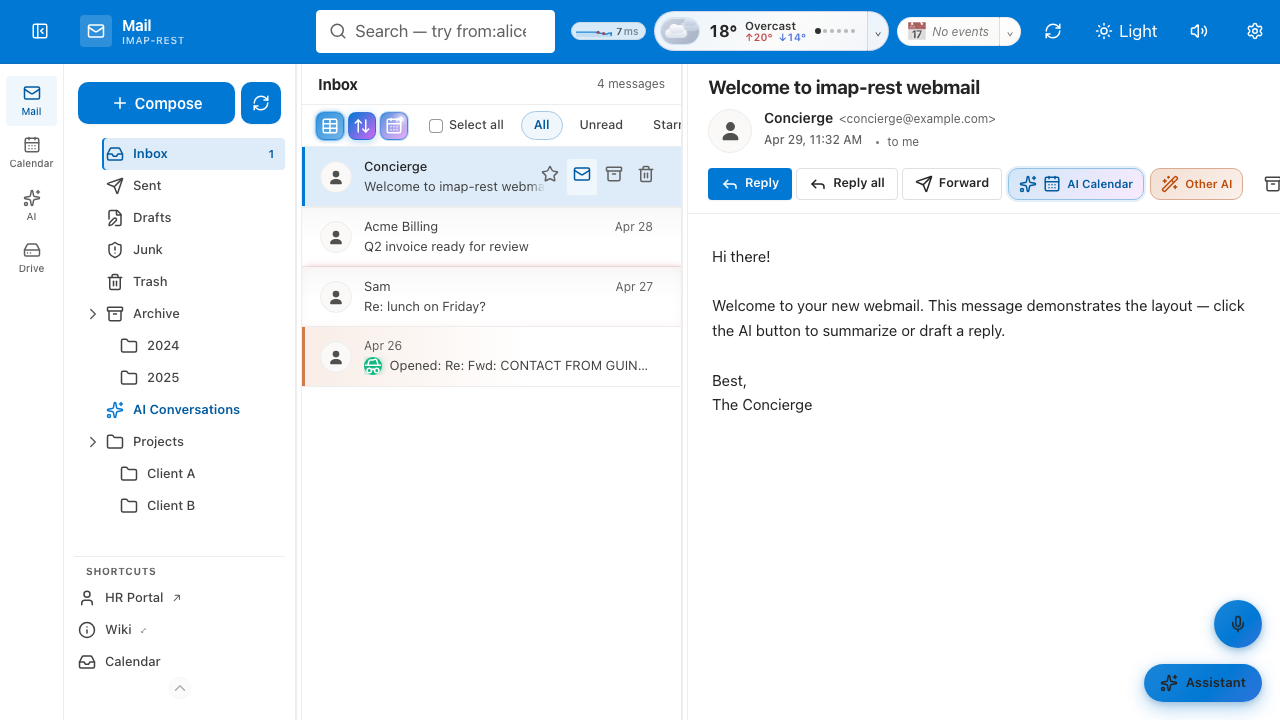
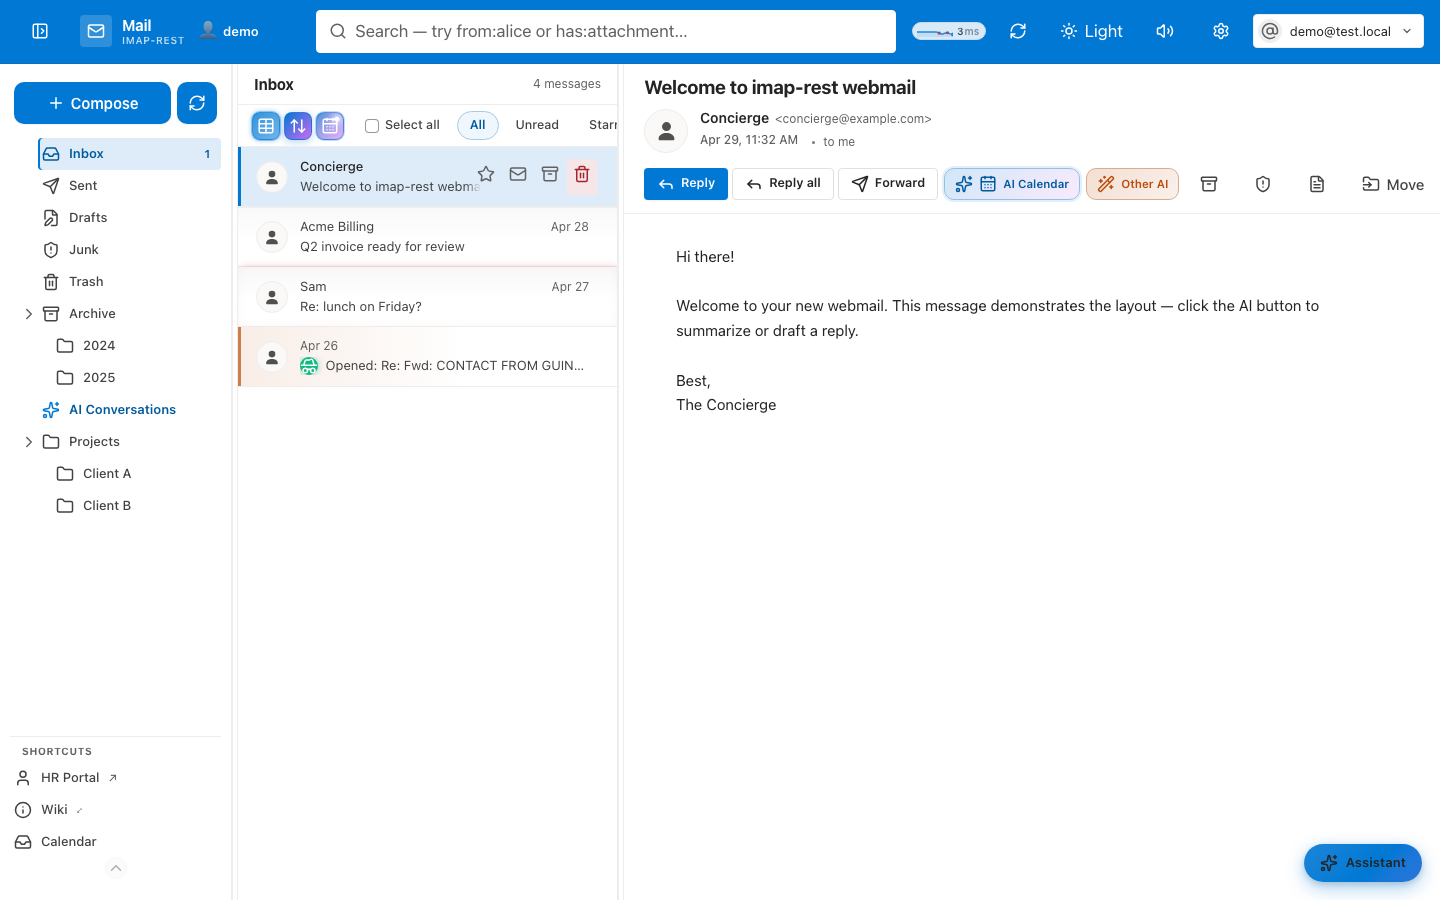
feat(webmail): sparser Outlook default — rail off, chips off, no mic, user chip (#23)
- App rail (AppSwitcher) hidden by default; topbar toggle restores it.
- Weather and calendar chips default off (Settings can re-enable).
- Outlook skin hides the voice FAB; Assistant stays.
- Outlook skin shows the signed-in user next to the Mail brand, OWA-style.
- Refreshed README screenshot.

diff --git a/webmail/src/lib/settings.svelte.ts b/webmail/src/lib/settings.svelte.ts
@@ -221,13 +221,13 @@ function load(): Settings {
                 vipAddresses: typeof parsed.vipAddresses === 'string'
                     ? parsed.vipAddresses
                     : 'family@delivering.email, family@rowe.net.me',
-                weatherChip: parsed.weatherChip !== false,
+                weatherChip: !!parsed.weatherChip,
                 weatherLatitude: typeof parsed.weatherLatitude === 'number' ? parsed.weatherLatitude : 51.5074,
                 weatherLongitude: typeof parsed.weatherLongitude === 'number' ? parsed.weatherLongitude : -0.1278,
                 weatherUnits: parsed.weatherUnits === 'fahrenheit' ? 'fahrenheit' : 'celsius',
-                calendarTicker: parsed.calendarTicker !== false,
+                calendarTicker: !!parsed.calendarTicker,
                 calendarTickerTitles: !!parsed.calendarTickerTitles,
-                hideSidebar: !!parsed.hideSidebar,
+                hideSidebar: parsed.hideSidebar !== false,
                 clientRules: Array.isArray(parsed.clientRules)
                     ? parsed.clientRules.filter(isValidClientRule)
                     : []
@@ -264,13 +264,13 @@ function load(): Settings {
         preSendCheck: true,
         composeHistorySummary: true,
         vipAddresses: 'family@delivering.email, family@rowe.net.me',
-        weatherChip: true,
+        weatherChip: false,
         weatherLatitude: 51.5074,
         weatherLongitude: -0.1278,
         weatherUnits: 'celsius',
-        calendarTicker: true,
+        calendarTicker: false,
         calendarTickerTitles: false,
-        hideSidebar: false,
+        hideSidebar: true,
         clientRules: []
     };
 }

diff --git a/webmail/src/components/Layout.svelte b/webmail/src/components/Layout.svelte
@@ -1510,6 +1510,11 @@
             <span class="brand-name">
                 <span class="brand-mark">Mail</span><span class="brand-sub">imap-rest</span>
             </span>
+            <!-- Outlook skin only: OWA shows the signed-in user in the header.
+                 Hidden by default; skin-outlook's extras CSS reveals it. -->
+            <span class="brand-user" aria-hidden="true">
+                <span class="brand-user-emoji">👤</span>{authState.activeUser?.split('@')[0] || ''}
+            </span>
         </div>
         <div class="search-wrap">
             <Icon name="search" size={16} />
@@ -2249,6 +2254,15 @@
         letter-spacing: 0.06em;
         text-transform: uppercase;
         color: var(--text-tertiary);
+    }
+    .brand-user {
+        display: none;
+        align-items: center;
+        gap: 6px;
+        font-size: 13px;
+        font-weight: 600;
+        color: var(--text-secondary);
+        white-space: nowrap;
     }
     .search-wrap {
         flex: 1;

diff --git a/webmail/src/lib/skins.svelte.ts b/webmail/src/lib/skins.svelte.ts
@@ -1121,6 +1121,18 @@ export const SKINS: Skin[] = [
                 .topbar .search-scope-btn { color: #0078d4 !important; border-color: #c8c6c4 !important; }
                 .topbar .muted { color: rgba(255,255,255,0.85) !important; }
 
+                /* Signed-in user next to the brand, like OWA's header. */
+                .topbar .brand-user {
+                    display: inline-flex !important;
+                    color: #fff !important;
+                    margin-left: 4px;
+                }
+                .topbar .brand-user-emoji { font-size: 14px; }
+
+                /* OWA's header is sparse — no mic FAB; the Assistant button
+                 * stays. */
+                .voice-fab { display: none !important; }
+
                 /* OWA marks unread rows with a blue edge bar and a blue
                  * bolded subject — no dot, no tint. */
                 .row.unread { box-shadow: inset 3px 0 0 var(--accent) !important; }
